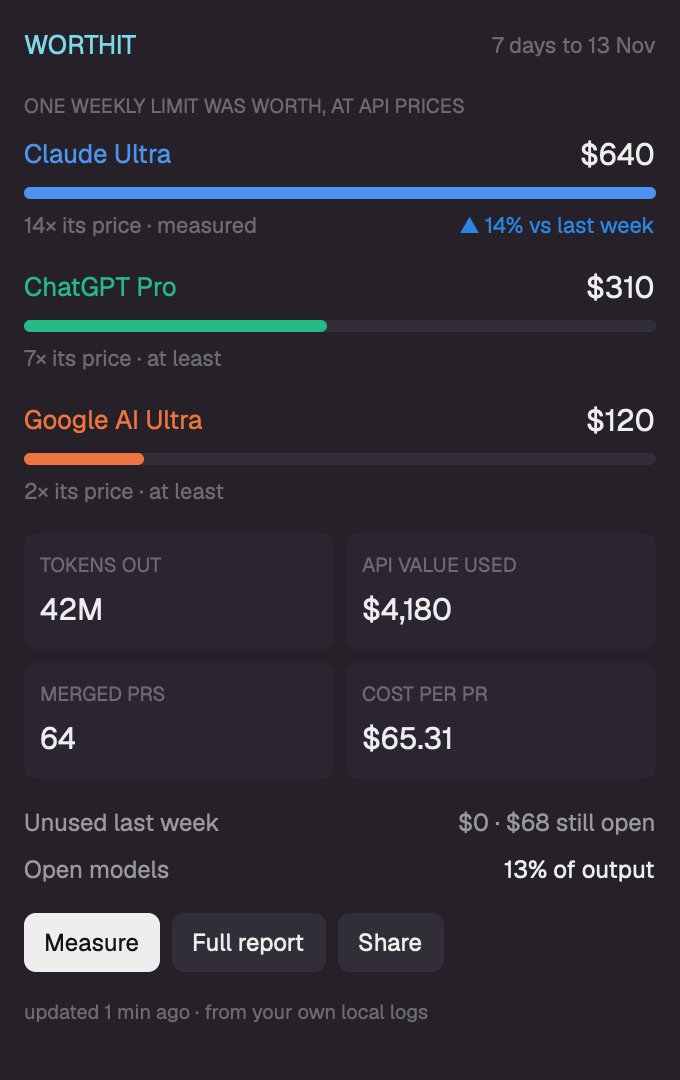
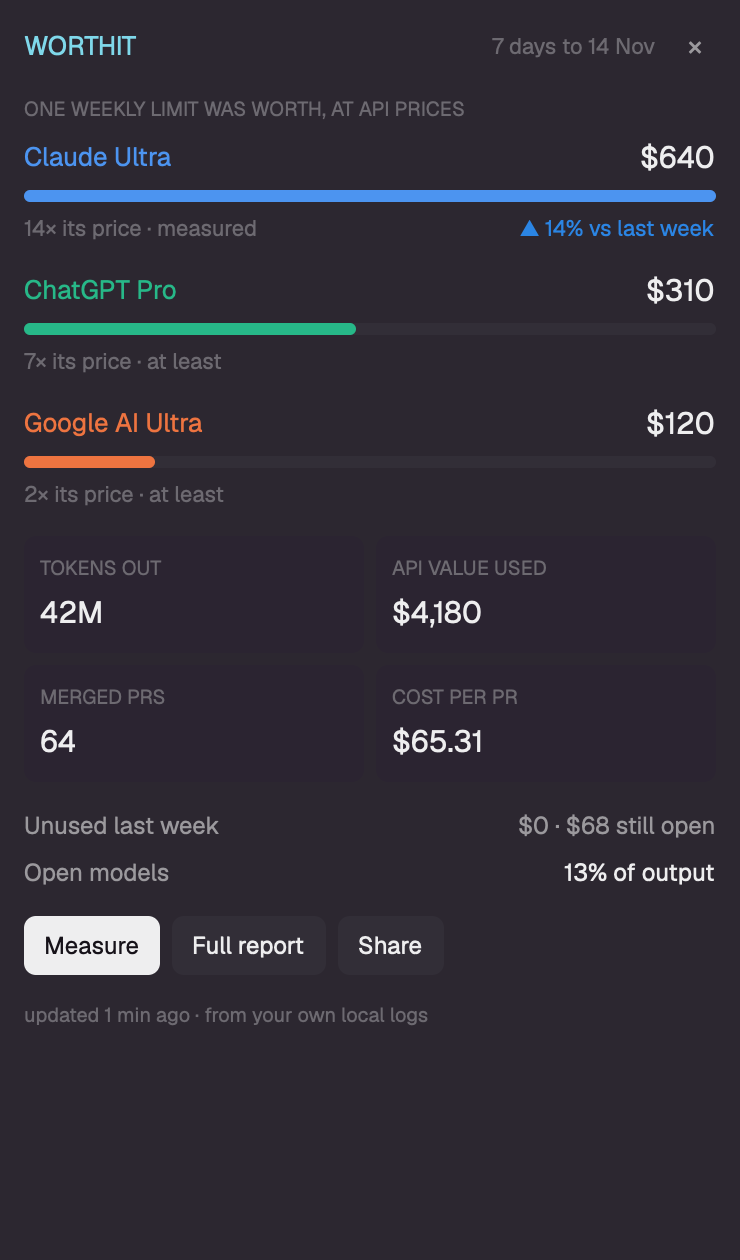
docs(herdr-mod): preview shows the dialog; recipe says dialog, not panel (#22)

diff --git a/herdr-mod/mods/worthit/main.js b/herdr-mod/mods/worthit/main.js
@@ -1,4 +1,4 @@
-// worthit: what your AI coding plans were worth this week, in a side panel.
+// worthit: what your AI coding plans were worth this week, in a dialog opened with ctrl-alt-w.
 // Reads ~/.worthit/last.json (written by `npx worthit`); the buttons run worthit itself.
 import { View, div } from "gpui-kit";
 import { v_flex, h_flex } from "gpui-base";

diff --git a/herdr-mod/RECIPE.md b/herdr-mod/RECIPE.md
@@ -18,7 +18,7 @@ A dialog 380px wide and 640px tall, on the theme's `popover` color, 16px padding
 5. **Buttons.** `Measure` (primary: `solid` on `solid_foreground`), `Full report` and `Share` (on `raised`), 12px semibold, 6px corners, wrapping if the column is narrow.
 6. **Footer.** 10px `dim`: `updated 12 min ago · from your own local logs`.
 
-With no data yet the panel shows one paragraph explaining what worthit does and a single `Measure now` button.
+With no data yet the dialog shows one paragraph explaining what worthit does and a single `Measure now` button.
 
 ## How it behaves
 
@@ -42,16 +42,16 @@ With no data yet the panel shows one paragraph explaining what worthit does and 
 - Do not dock it into the layout (`"place": "right"`): a docked block has no way to be closed by the person. Keep it an overlay.
 - A scan gives no progress through `exec`; without the elapsed time and the note it looks stuck for minutes.
 - `toLocaleString("en-US")` does not add thousands separators in the mod runtime: format numbers by hand.
-- `herdr-app check` renders the empty state only, because the file is read asynchronously. Look at the panel in the app with real data before calling it done.
+- `herdr-app check` renders the empty state only, because the file is read asynchronously. Look at the dialog in the app with real data before calling it done.
 - A floor (`proof` other than `measured`) is "at least": never show a week-over-week change for it.
 - A first `Measure` on a machine with months of logs can take several minutes; later ones are cached and take seconds. It uses whatever scan settings worthit saved last (other machines, git).
 - worthit needs Node 22.5+ and Python 3 on the machine.
-- The panel shows this computer's file only; it does not read a remote space's home.
+- The dialog shows this computer's file only; it does not read a remote space's home.
 
 ## Done when
 
 - `herdr-app check mods/worthit` passes.
-- With no `~/.worthit/last.json`, the panel shows the explanation and `Measure now`.
+- With no `~/.worthit/last.json`, the dialog shows the explanation and `Measure now`.
 - With a run on disk, each plan shows its name in its color, a value with thousands separators, a bar, and `measured` or `at least`; the highest plan's bar is full width.
 - `ctrl-alt-w` opens the dialog; Esc and × close it.
 - `Measure` shows the spinner with a growing elapsed time, and the footer reads `updated 1 min ago` after it ends.
